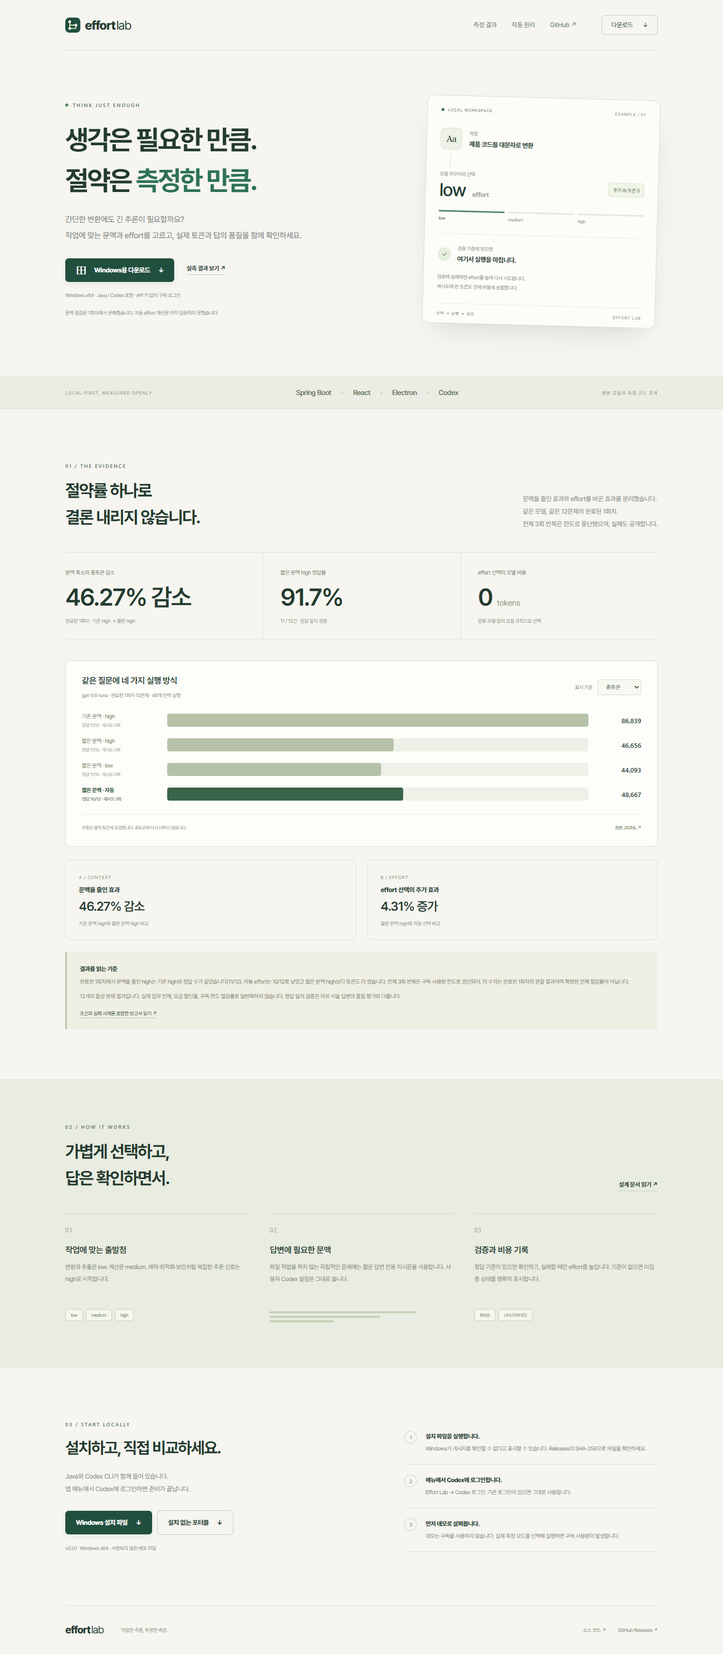
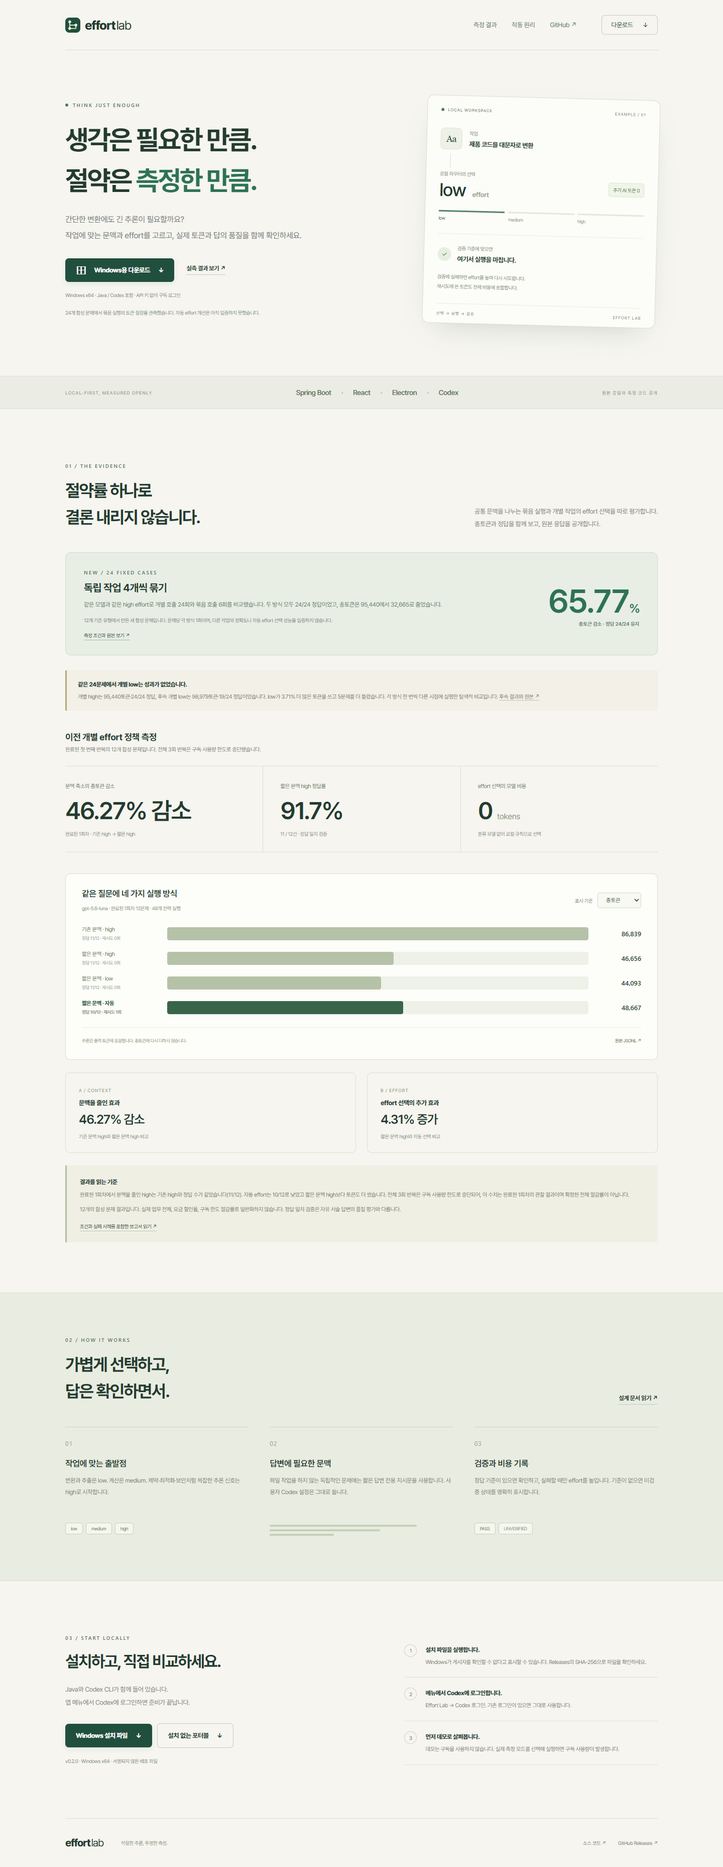
docs: publish audited findings and v0.2 downloads

diff --git a/site/index.html b/site/index.html
@@ -9,19 +9,22 @@
 <header class="nav wrap"><a class="brand" href="./" aria-label="Effort Lab 홈"><img src="./icon.svg" width="30" height="30" alt="">effort<span>lab</span></a><nav aria-label="주 메뉴"><a href="#evidence">측정 결과</a><a href="#approach">작동 원리</a><a href="https://github.com/minseokKim6823/effort_lab">GitHub ↗</a></nav><a class="nav-download" href="#download">다운로드 <span>↓</span></a></header>
 <main>
 <section class="hero wrap">
- <div class="hero-copy"><div class="eyebrow"><i></i> THINK JUST ENOUGH</div><h1>생각은 필요한 만큼.<br>절약은 <em>측정한 만큼.</em></h1><p class="lede">간단한 변환에도 긴 추론이 필요할까요?<br>작업에 맞는 문맥과 effort를 고르고,<br class="mobile-break"> 실제 토큰과 답의 품질을 함께 확인하세요.</p><div class="hero-actions"><a class="button primary" href="https://github.com/minseokKim6823/effort_lab/releases/latest/download/Effort-Lab-Setup-0.1.0-x64.exe"><span class="windows" aria-hidden="true">⊞</span> Windows용 다운로드 <span>↓</span></a><a class="text-link" href="#evidence">실측 결과 보기 ↗</a></div><div class="fine-print">Windows x64 · Java / Codex 포함 · API 키 없이 구독 로그인</div><p class="fine-print">문맥 절감은 1회차에서 관측했습니다. 자동 effort 개선은 아직 입증하지 못했습니다.</p></div>
+ <div class="hero-copy"><div class="eyebrow"><i></i> THINK JUST ENOUGH</div><h1>생각은 필요한 만큼.<br>절약은 <em>측정한 만큼.</em></h1><p class="lede">간단한 변환에도 긴 추론이 필요할까요?<br>작업에 맞는 문맥과 effort를 고르고,<br class="mobile-break"> 실제 토큰과 답의 품질을 함께 확인하세요.</p><div class="hero-actions"><a class="button primary" href="https://github.com/minseokKim6823/effort_lab/releases/latest/download/Effort-Lab-Setup-0.2.0-x64.exe"><span class="windows" aria-hidden="true">⊞</span> Windows용 다운로드 <span>↓</span></a><a class="text-link" href="#evidence">실측 결과 보기 ↗</a></div><div class="fine-print">Windows x64 · Java / Codex 포함 · API 키 없이 구독 로그인</div><p class="fine-print">24개 합성 문제에서 묶음 실행의 토큰 절감을 관측했습니다. 자동 effort 개선은 아직 입증하지 못했습니다.</p></div>
  <div class="flow-card" aria-label="로컬 선택, 모델 실행, 정답 검증 순서의 예시"><div class="card-top"><span><i></i> LOCAL WORKSPACE</span><span>EXAMPLE / 01</span></div><div class="task-line"><span class="task-symbol">Aa</span><div><small>작업</small><strong>제품 코드를 대문자로 변환</strong></div></div><div class="flow-line"></div><div class="route-line"><div><small>로컬 라우터의 선택</small><strong>low <span>effort</span></strong></div><span class="pill">추가 AI 토큰 0</span></div><div class="effort-track"><span class="active">low</span><span>medium</span><span>high</span></div><div class="result-line"><span class="check">✓</span><div><small>검증 기준에 맞으면</small><strong>여기서 실행을 마칩니다.</strong></div></div><p class="card-note">검증에 실패하면 effort를 높여 다시 시도합니다.<br>재시도에 쓴 토큰도 전체 비용에 포함합니다.</p><div class="card-bottom"><span>선택 → 실행 → 검증</span><span>EFFORT LAB</span></div></div>
 </section>
 <div class="stack-band"><div class="wrap"><span>LOCAL-FIRST, MEASURED OPENLY</span><div>Spring Boot <i>·</i> React <i>·</i> Electron <i>·</i> Codex</div><span>원본 응답과 측정 코드 공개</span></div></div>
 <section id="evidence" class="evidence wrap">
- <div class="section-heading"><div><span class="eyebrow">01 / THE EVIDENCE</span><h2>절약률 하나로<br>결론 내리지 않습니다.</h2></div><p>문맥을 줄인 효과와 effort를 바꾼 효과를 분리했습니다.<br>같은 모델, 같은 12문제의 완료된 1회차.<br>전체 3회 반복은 한도로 중단됐으며, 실패도 공개합니다.</p></div>
+ <div class="section-heading"><div><span class="eyebrow">01 / THE EVIDENCE</span><h2>절약률 하나로<br>결론 내리지 않습니다.</h2></div><p>공통 문맥을 나누는 묶음 실행과 개별 작업의 effort 선택을 따로 평가합니다.<br>총토큰과 정답을 함께 보고, 원본 응답을 공개합니다.</p></div>
+ <div class="batch-proof"><div><span class="eyebrow">NEW / 24 FIXED CASES</span><h3>독립 작업 4개씩 묶기</h3><p>같은 모델과 같은 high effort로 개별 호출 24회와 묶음 호출 6회를 비교했습니다. 두 방식 모두 24/24 정답이었고, 총토큰은 95,440에서 32,665로 줄었습니다.</p><p class="proof-limit">12개 기존 유형에서 만든 새 합성 문제입니다. 문제당 각 방식 1회이며, 다른 작업의 정확도나 자동 effort 선택 성능을 입증하지 않습니다.</p><a href="https://github.com/minseokKim6823/effort_lab/blob/main/docs/묶음실측결과.md">측정 조건과 원본 보기 ↗</a></div><strong>65.77<small>%</small><span>총토큰 감소 · 정답 24/24 유지</span></strong></div>
+ <div class="followup-note"><strong>같은 24문제에서 개별 low는 성과가 없었습니다.</strong><p>개별 high는 95,440토큰·24/24 정답, 후속 개별 low는 98,979토큰·19/24 정답이었습니다. low가 3.71% 더 많은 토큰을 쓰고 5문제를 더 틀렸습니다. 각 방식 한 번씩 다른 시점에 실행한 탐색적 비교입니다. <a href="https://github.com/minseokKim6823/effort_lab/blob/main/docs/개별-effort-후속결과.md">후속 결과와 원본 ↗</a></p></div>
+ <h3 class="prior-heading">이전 개별 effort 정책 측정</h3><p class="prior-intro">완료된 첫 번째 반복의 12개 합성 문제입니다. 전체 3회 반복은 구독 사용량 한도로 중단됐습니다.</p>
  <div class="metrics"><article><span>문맥 축소의 총토큰 감소</span><strong id="overall">—</strong><p>완료된 1회차 · 기존 high → 짧은 high</p></article><article><span>짧은 문맥 high 정답률</span><strong id="quality">—</strong><p id="quality-detail">실측 데이터를 읽고 있습니다.</p></article><article><span>effort 선택의 모델 비용</span><strong>0 <small>tokens</small></strong><p>분류 모델 없이 로컬 규칙으로 선택</p></article></div>
  <div class="comparison"><div class="chart-heading"><div><h3>같은 질문에 네 가지 실행 방식</h3><span id="model-label">실측 데이터 로딩 중</span></div><label>표시 기준<select id="metric-select"><option value="totalTokens">총토큰</option><option value="inputTokens">입력 토큰</option><option value="outputTokens">출력 토큰</option><option value="reasoningTokens">추론 토큰</option></select></label></div><div id="bars" aria-live="polite"></div><div class="chart-foot"><span>추론은 출력 토큰에 포함됩니다. 총토큰에 다시 더하지 않습니다.</span><a href="https://github.com/minseokKim6823/effort_lab/tree/main/results/v2">원본 JSONL ↗</a></div></div>
  <div class="effect-grid"><article><span>A / CONTEXT</span><h3>문맥을 줄인 효과</h3><strong id="context-effect">—</strong><p>기존 문맥 high와 짧은 문맥 high 비교</p></article><article><span>B / EFFORT</span><h3>effort 선택의 추가 효과</h3><strong id="effort-effect">—</strong><p>짧은 문맥 high와 자동 선택 비교</p></article></div>
  <aside class="honesty"><span>결과를 읽는 기준</span><p id="conclusion">측정 원본을 불러온 후 결과와 한계를 표시합니다.</p><p>12개의 합성 문제 결과입니다. 실제 업무 전체, 요금 할인율, 구독 한도 절감률로 일반화하지 않습니다. 정답 일치 검증은 자유 서술 답변의 품질 평가와 다릅니다.</p><a href="https://github.com/minseokKim6823/effort_lab/blob/main/docs/개선실측결과.md">조건과 실패 사례를 포함한 보고서 읽기 ↗</a></aside>
 </section>
 <section id="approach" class="approach"><div class="wrap"><div class="section-heading"><div><span class="eyebrow">02 / HOW IT WORKS</span><h2>가볍게 선택하고,<br>답은 확인하면서.</h2></div><a class="text-link" href="https://github.com/minseokKim6823/effort_lab/blob/main/docs/개선설계.md">설계 문서 읽기 ↗</a></div><div class="steps"><article><span class="step-number">01</span><h3>작업에 맞는 출발점</h3><p>변환과 추출은 low. 계산은 medium. 제약·최적화·보안처럼 복잡한 추론 신호는 high로 시작합니다.</p><div class="mini-tags"><span>low</span><span>medium</span><span>high</span></div></article><article><span class="step-number">02</span><h3>답변에 필요한 문맥</h3><p>파일 작업을 하지 않는 독립적인 문제에는 짧은 답변 전용 지시문을 사용합니다. 사용자 Codex 설정은 그대로 둡니다.</p><div class="context-lines"><i></i><i></i><i></i></div></article><article><span class="step-number">03</span><h3>검증과 비용 기록</h3><p>정답 기준이 있으면 확인하고, 실패할 때만 effort를 높입니다. 기준이 없으면 미검증 상태를 명확히 표시합니다.</p><div class="mini-tags"><span>PASS</span><span class="muted-tag">UNVERIFIED</span></div></article></div></div></section>
-<section id="download" class="download wrap"><div><span class="eyebrow">03 / START LOCALLY</span><h2>설치하고, 직접 비교하세요.</h2><p>Java와 Codex CLI가 함께 들어 있습니다.<br>앱 메뉴에서 Codex에 로그인하면 준비가 끝납니다.</p><div class="download-actions"><a class="button primary" href="https://github.com/minseokKim6823/effort_lab/releases/latest/download/Effort-Lab-Setup-0.1.0-x64.exe">Windows 설치 파일 <span>↓</span></a><a class="button secondary" href="https://github.com/minseokKim6823/effort_lab/releases/latest/download/Effort-Lab-0.1.0-portable-x64.exe">설치 없는 포터블 <span>↓</span></a></div><div class="fine-print">v0.1.0 · Windows x64 · 서명되지 않은 배포 파일</div></div><ol class="install-steps"><li><span>1</span><div><strong>설치 파일을 실행합니다.</strong><p>Windows가 게시자를 확인할 수 없다고 표시할 수 있습니다. Releases의 SHA-256으로 파일을 확인하세요.</p></div></li><li><span>2</span><div><strong>메뉴에서 Codex에 로그인합니다.</strong><p>Effort Lab → Codex 로그인. 기존 로그인이 있으면 그대로 사용합니다.</p></div></li><li><span>3</span><div><strong>먼저 데모로 살펴봅니다.</strong><p>데모는 구독을 사용하지 않습니다. 실제 측정 모드를 선택해 실행하면 구독 사용량이 발생합니다.</p></div></li></ol></section>
+<section id="download" class="download wrap"><div><span class="eyebrow">03 / START LOCALLY</span><h2>설치하고, 직접 비교하세요.</h2><p>Java와 Codex CLI가 함께 들어 있습니다.<br>앱 메뉴에서 Codex에 로그인하면 준비가 끝납니다.</p><div class="download-actions"><a class="button primary" href="https://github.com/minseokKim6823/effort_lab/releases/latest/download/Effort-Lab-Setup-0.2.0-x64.exe">Windows 설치 파일 <span>↓</span></a><a class="button secondary" href="https://github.com/minseokKim6823/effort_lab/releases/latest/download/Effort-Lab-0.2.0-portable-x64.exe">설치 없는 포터블 <span>↓</span></a></div><div class="fine-print">v0.2.0 · Windows x64 · 서명되지 않은 배포 파일</div></div><ol class="install-steps"><li><span>1</span><div><strong>설치 파일을 실행합니다.</strong><p>Windows가 게시자를 확인할 수 없다고 표시할 수 있습니다. Releases의 SHA-256으로 파일을 확인하세요.</p></div></li><li><span>2</span><div><strong>메뉴에서 Codex에 로그인합니다.</strong><p>Effort Lab → Codex 로그인. 기존 로그인이 있으면 그대로 사용합니다.</p></div></li><li><span>3</span><div><strong>먼저 데모로 살펴봅니다.</strong><p>데모는 구독을 사용하지 않습니다. 실제 측정 모드를 선택해 실행하면 구독 사용량이 발생합니다.</p></div></li></ol></section>
 </main>
 <footer class="wrap"><a class="brand" href="./">effort<span>lab</span></a><p>적절한 추론, 투명한 측정.</p><div><a href="https://github.com/minseokKim6823/effort_lab">소스 코드 ↗</a><a href="https://github.com/minseokKim6823/effort_lab/releases/latest">GitHub Releases ↗</a></div></footer>
 <script type="module" src="./app.js"></script>

diff --git a/site/style.css b/site/style.css
@@ -2,3 +2,7 @@
 @media(max-width:1050px){.hero{gap:35px;padding-top:70px}.hero h1{font-size:40px}.hero-actions{align-items:flex-start;flex-direction:column;gap:18px}.flow-card{padding-inline:20px}.stack-band span:last-child{display:none}.download{gap:35px}.download-actions{align-items:stretch;flex-direction:column}.metrics strong{font-size:42px}}
 @media(max-width:760px){.wrap{width:calc(100% - 40px)}.nav{height:76px;gap:20px}.nav nav{gap:17px;font-size:11px}.nav nav a:nth-child(2){display:none}.nav-download{display:none}.brand{font-size:22px}.hero{grid-template-columns:1fr;padding:48px 0 58px;gap:43px}.hero h1{font-size:38px;letter-spacing:-2.2px}.lede{font-size:14px}.hero-actions{flex-direction:row;align-items:center;gap:18px}.button{font-size:11px;padding:14px 15px;gap:10px}.text-link{font-size:10px}.flow-card{transform:none;max-width:420px;width:100%;margin:auto;padding:22px 25px 0}.stack-band .wrap{flex-direction:column;gap:12px;padding-block:21px}.stack-band div div{font-size:12px}.stack-band i{padding:0 12px}.section-heading{flex-direction:column;align-items:flex-start;gap:18px;margin-bottom:28px}.section-heading h2,.download h2{font-size:28px}.section-heading>p{font-size:11px}.evidence{padding-top:58px;padding-bottom:57px}.metrics{gap:0;margin-bottom:25px}.metrics article{padding:19px 9px 19px 0}.metrics article+article{padding-left:12px}.metrics article>span{font-size:9px;display:block;line-height:1.7;min-height:30px}.metrics strong{font-size:30px;letter-spacing:-1.5px}.metrics strong small{font-size:10px}.metrics p{font-size:8px}.comparison{padding:20px 15px}.chart-heading{flex-wrap:wrap;gap:18px}.chart-heading h3{font-size:14px}.bar-row{grid-template-columns:105px 1fr 60px;gap:8px}.bar-label{font-size:9px}.bar-label small{font-size:8px}.bar-track{height:22px}.bar-value{font-size:11px}.chart-foot{font-size:8px;gap:14px}.effect-grid{gap:10px;margin:17px 0}.effect-grid article{padding:17px 13px}.effect-grid h3{font-size:11px;line-height:1.8;min-height:38px;margin:8px 0}.effect-grid strong{font-size:21px}.effect-grid p{font-size:9px}.honesty{padding:20px 18px}.honesty p{font-size:10px}.approach{padding:55px 0}.steps{grid-template-columns:1fr;gap:32px}.steps article{padding-top:18px}.steps h3{margin:13px 0 10px}.steps p{min-height:0;margin-bottom:15px}.download{grid-template-columns:1fr;padding:58px 0;gap:24px}.download-actions{flex-direction:row}.install-steps li{padding:18px 0}.download p{font-size:12px}.install-steps p{font-size:10px}.download .button{flex:1;padding-inline:10px}footer{flex-wrap:wrap;gap:18px;padding:25px 0}footer>div{margin:0;width:100%}footer p{margin-left:auto;font-size:9px}}
 @media(prefers-reduced-motion:reduce){html{scroll-behavior:auto}*{transition:none!important}}
+.batch-proof{display:grid;grid-template-columns:1.5fr .7fr;gap:42px;align-items:center;background:#e8eee4;border:1px solid #cbdcc9;border-radius:11px;padding:31px 36px;margin-bottom:52px}.batch-proof h3{font-size:21px;letter-spacing:-.7px;margin:10px 0}.batch-proof p{font-size:12px;line-height:1.85;color:#68796c;margin:0 0 10px}.batch-proof .proof-limit{font-size:10px;color:#7d8a7c}.batch-proof a{font-size:10px;border-bottom:1px solid #9fb9a2;padding-bottom:3px}.batch-proof>strong{font-size:clamp(40px,5vw,65px);font-weight:600;letter-spacing:-2px;color:#2e7256;text-align:right}.batch-proof>strong small{font-size:24px}.batch-proof>strong span{display:block;font-size:10px;font-weight:500;letter-spacing:0;color:#66806a}.prior-heading{font-size:18px;margin:0 0 5px}.prior-intro{font-size:11px;line-height:1.8;color:#7d8778;margin:0 0 22px}
+@media(max-width:760px){.batch-proof{grid-template-columns:1fr;gap:15px;padding:24px 20px;margin-bottom:35px}.batch-proof>strong{text-align:left;font-size:45px}.batch-proof>strong span{margin-top:3px}}
+.followup-note{border-left:3px solid #b7a974;background:#f2f0e7;padding:17px 22px;margin:-22px 0 42px}.followup-note strong{font-size:12px}.followup-note p{font-size:11px;line-height:1.8;color:#777e6e;margin:7px 0 0}.followup-note a{border-bottom:1px solid #bdc3ad}
+@media(max-width:760px){.followup-note{margin:-13px 0 30px;padding:16px 18px}}

diff --git a/docs/RELEASE_NOTES.md b/docs/RELEASE_NOTES.md
@@ -1,13 +1,17 @@
-Effort Lab v0.1.0 — Windows 데스크톱 첫 배포
+Effort Lab v0.2.0 — 독립 작업 묶음 실행과 측정 무결성 개선
 
-[README와 설치 방법](https://github.com/minseokKim6823/effort_lab#다운로드와-시작) · [실측 관찰 보고서](https://github.com/minseokKim6823/effort_lab/blob/main/docs/개선실측결과.md)
+[README와 설치 방법](https://github.com/minseokKim6823/effort_lab#다운로드와-시작) · [측정 방법](https://github.com/minseokKim6823/effort_lab/blob/main/docs/측정방법.md) · [실측 데이터와 재현 기록](https://github.com/minseokKim6823/effort_lab/tree/main/results)
 
-- Java 21, Electron의 Node 런타임, Codex CLI를 포함합니다.
-- 앱 메뉴에서 Codex 구독 로그인으로 실행합니다. API 키는 필요하지 않습니다.
-- 네 비교군으로 문맥 축소와 effort 선택 효과를 구분합니다.
-- 데모, 원본 사용량 기록, 정답 검증, 실패 시 effort 상승, 호출 전 오류의 재개를 지원합니다.
+- 독립 작업을 최대 4개씩 묶어 같은 high effort로 실행합니다. 반복되는 입력 문맥을 공유하며, 작업별 답안과 호출별 전체 사용량을 함께 확인합니다.
+- 같은 24개 합성 문제에서 개별 high 24회와 네 문제씩 묶은 high 6회가 모두 24/24 정답이었습니다. 전체 토큰은 95,440에서 32,665로 **65.77% 감소**했습니다. [측정 조건과 원본](https://github.com/minseokKim6823/effort_lab/blob/main/docs/묶음실측결과.md)을 공개합니다.
+- 같은 문제의 후속 개별 low 24회는 98,979토큰·19/24 정답으로 개별 high보다 3.71% 많은 토큰을 쓰고 5문제를 더 틀렸습니다. [후속 결과](https://github.com/minseokKim6823/effort_lab/blob/main/docs/개별-effort-후속결과.md)를 공개합니다. 낮은 effort를 기본 성과로 주장하지 않습니다.
+- 정답과 검증 규칙은 모델 프롬프트에 넣지 않습니다. 묶음 답안의 작업 ID·중복·누락과 JSON 형식을 검사하고, 오류가 나도 이미 소비한 사용량을 보존합니다.
+- 단일 작업·비교 실험·묶음 실행이 동시에 모델을 호출하지 않도록 실행 잠금을 공유합니다.
+- 토큰 기준 때문에 남은 재시도를 실행하지 못한 실험은 완료나 유효한 절감률로 표시하지 않습니다. 손상·음수·범위 초과 사용량을 거부합니다.
+- CLI 입출력 실패와 시간 초과 시 자식 프로세스를 정리하며, 로컬 서버의 외부 Host 요청을 차단합니다.
+- Java 21, Electron의 Node 런타임, Codex CLI가 포함됩니다. 앱 메뉴의 Codex 구독 로그인으로 사용하며 API 키를 입력할 필요가 없습니다.
 - Windows x64 설치형과 포터블을 제공합니다. 파일은 코드 서명되지 않았으며 SHA256SUMS.txt로 확인할 수 있습니다.
 
-완료된 첫 반복에서 문맥을 줄인 high는 기존 high와 정답 수가 같고 총토큰이 46.27% 적었습니다. 자동 effort의 품질 개선은 입증하지 못했습니다. 전체 3회 반복은 구독 한도로 중단됐으므로 위 수치는 제한적인 관찰입니다. 실패와 원본을 보고서에 공개합니다.
+묶음 실행은 반복 문맥을 줄이는 기능입니다. 개별 작업의 effort 선택 성능 개선과 구분해서 평가해야 합니다. 문제당 각 방식 한 번씩 실행한 합성 문제 결과이므로 다른 작업의 정확도를 보장하지 않습니다. 데모는 동작 확인용 시뮬레이션이며 실제 절감 성과의 근거가 아닙니다. README와 실측 기록에서 완료 여부, 정답률, 전체 토큰을 함께 확인하세요.
 
-설치 파일에 사용자 계정, 자격 증명, 실험 DB는 포함하지 않습니다.
+토큰 중단 기준은 호출 사이에 확인하므로 마지막 호출만큼 초과할 수 있습니다. 사용량을 알 수 없는 호출이 있으면 표시된 합계를 전체 비용이나 절감률로 해석할 수 없습니다. 설치 파일에 사용자 계정, 자격 증명, 실험 DB는 포함하지 않습니다.

diff --git a/README.md b/README.md
@@ -6,7 +6,7 @@
 
 Spring Boot · Java 21 · React · TypeScript · Electron · H2
 
-[기획서](docs/기획서.md) · [개선 설계](docs/개선설계.md) · [실측 결과](docs/개선실측결과.md) · [Releases](https://github.com/minseokKim6823/effort_lab/releases)
+[기획서](docs/기획서.md) · [묶음 실측](docs/묶음실측결과.md) · [추론 예산 연구](docs/추론예산연구.md) · [Releases](https://github.com/minseokKim6823/effort_lab/releases)
 
 ## 다운로드와 시작
 
@@ -14,8 +14,8 @@ Spring Boot · Java 21 · React · TypeScript · Electron · H2
 
 | 파일 | 용도 |
 |---|---|
-| `Effort-Lab-Setup-0.1.0-x64.exe` | 설치형. 설치 후 시작 메뉴에서 Effort Lab 실행 |
-| `Effort-Lab-0.1.0-portable-x64.exe` | 설치 없이 실행하는 포터블 |
+| `Effort-Lab-Setup-0.2.0-x64.exe` | 설치형. 설치 후 시작 메뉴에서 Effort Lab 실행 |
+| `Effort-Lab-0.2.0-portable-x64.exe` | 설치 없이 실행하는 포터블 |
 | `SHA256SUMS.txt` | 다운로드 파일의 SHA-256 확인 |
 
 **데스크톱 패키지에는 Java 21, Node 런타임, Codex CLI가 포함됩니다. 별도 설치는 필요하지 않습니다.**
@@ -30,12 +30,16 @@ Spring Boot · Java 21 · React · TypeScript · Electron · H2
 배포 파일은 코드 서명되지 않아 Windows가 알 수 없는 게시자로 표시할 수 있습니다. 아래 명령으로 받은 파일을 확인하고, 같은 릴리스의 `SHA256SUMS.txt`와 비교하세요.
 
 ```powershell
-Get-FileHash .\Effort-Lab-Setup-0.1.0-x64.exe -Algorithm SHA256
+Get-FileHash .\Effort-Lab-Setup-0.2.0-x64.exe -Algorithm SHA256
 ```
 
 ## 실제로 얼마나 줄었나
 
-**문맥 축소의 효과는 관측했지만, 자동 effort 선택의 개선은 아직 입증하지 못했습니다.**
+**독립 작업 묶음 실행의 효과는 관측했지만, 자동 effort 선택의 개선은 아직 입증하지 못했습니다.**
+
+새로운 24개 합성 문제에서 같은 `high` effort로 개별 호출 24회와 네 문제씩 묶은 호출 6회를 비교했습니다. 두 방식 모두 24/24 정답이었고 총토큰은 **95,440 → 32,665(65.77% 감소)**였습니다. 반복 문맥을 공유해 입력 토큰이 87,784 → 23,975로 줄었습니다. 문제당 한 번씩 실행했으며, 12개 기존 유형의 새 인스턴스이므로 실제 업무나 다른 작업 유형의 품질 유지로 일반화할 수 없습니다. [조건·원본·감사 결과](docs/묶음실측결과.md)를 공개합니다.
+
+같은 24문제의 개별 호출에서 `low`는 **98,979토큰·19/24 정답**으로, `high`의 **95,440토큰·24/24 정답**보다 토큰을 **3.71% 더 사용**하고 5문제를 더 틀렸습니다. 한 번씩 다른 시점에 실행한 탐색적 비교이며, 낮은 effort가 항상 저렴하다는 가정도 성립하지 않았습니다. [후속 계획·원본·독립 감사](docs/개별-effort-후속결과.md)를 공개합니다. 기존 자동 정책의 성과는 아래와 같습니다.
 
 확장 12문제의 **완료된 첫 번째 반복** 결과입니다. 모델은 `gpt-5.6-luna`이며, 정답은 코드로 계산하고 실험 전에 고정했습니다.
 
@@ -138,6 +142,9 @@ npm run test:e2e --prefix frontend
 - [기획서](docs/기획서.md): 문제, 목적, 사용 흐름
 - [개선 설계](docs/개선설계.md): 네 비교군과 데스크톱 구조
 - [개선 실측 결과](docs/개선실측결과.md): 조건, 중단, 원본 검증, 실패 사례
+- [묶음 실측 결과](docs/묶음실측결과.md): 24개 문제, 30개 호출, 65.77% 총토큰 감소와 적용 범위
+- [개별 effort 후속 결과](docs/개별-effort-후속결과.md): 같은 24개 문제의 high/low 품질과 전체 토큰
+- [추론 예산 연구](docs/추론예산연구.md): 라우터·재시도 비용, 관련 연구, 향후 검증 기준
 - [측정 방법](docs/측정방법.md): 집계와 검증 기준
 - [개발 검증 결과](docs/검증결과.md): 초기 빌드·테스트 기록
 - [데스크톱 실행 검증](results/desktop-smoke.json): 번들 실행과 종료 확인
